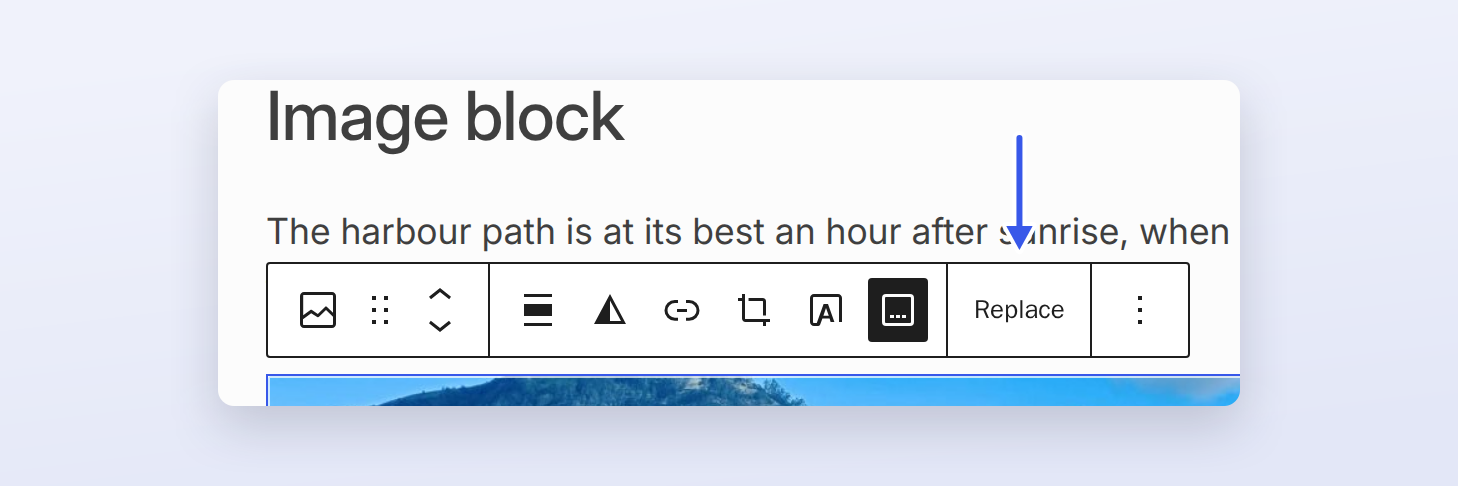
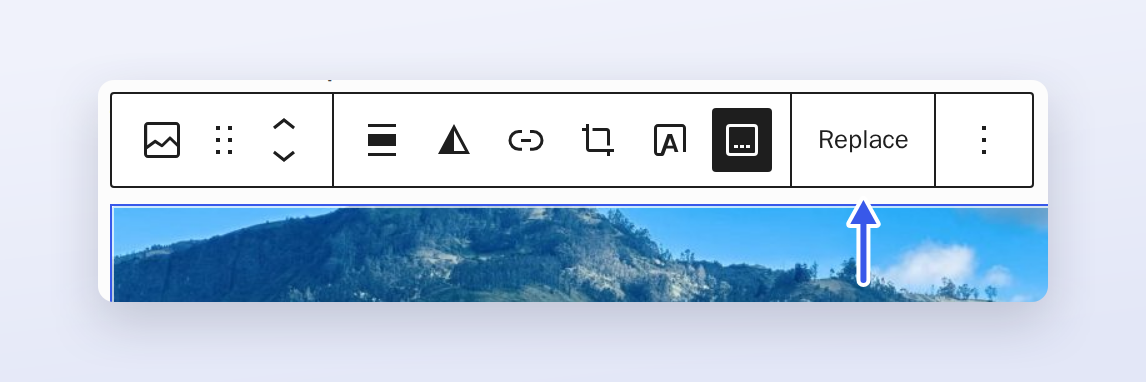
Screenshots: preview command, review loop, Gallery and Table showcase, tighter toolbar crops
- `wp-screenshots preview [filters] [--width] [--out]` writes PNG copies of
  generated images so a person or an agent can look at them; the screenshots
  skill now describes the loop: lint, render, preview and look, fix, snippet,
  canonical render.
- Demo site: `block-gallery` and `block-table` showcase posts alongside
  `block-image`, each with a featured image and dated 2023.
- Example project: Gallery and Table block articles with specs. `auto` put
  the three-column gallery on the banner frame and the table on 16:9, which
  the guideline now shows as the point of `auto`.
- Presets: block-toolbar pad 6 (a toolbar sits right under the previous
  block; a wider pad dragged that text in half-cut). Default arrow length 40
  and a guideline note to point at toolbar buttons from below or the side.
- All eleven example images rendered canonically in the Playwright image and
  accepted; five were pixel-identical to the previous canonical run.

diff --git a/packages/screenshots/src/cli.js b/packages/screenshots/src/cli.js
@@ -27,6 +27,7 @@ Commands
   dev       Open a headed browser, run a shot's scene and steps, then pause in the Playwright Inspector
   shoot     Render one shot from a preset without a spec file (--preset <name> [--<param> <value>] [--out <file>])
   presets   List the presets (subjects) a shot can be built from, with their parameters
+  preview   Write PNG copies of generated images (filters apply) into <workDir>/preview for review
   doctor    Check the local setup
   list      List specs and shots
   vocab     List the scenes, step verbs and capture targets specs can use
@@ -202,6 +203,8 @@ async function main() {
 		}
 		case 'shoot':
 			return shoot( config, flags );
+		case 'preview':
+			return preview( config, filter, flags );
 		case 'doctor':
 			return ( await doctor( config ) ) ? 0 : 1;
 		case 'vocab':
@@ -279,6 +282,61 @@ async function shoot( config, options ) {
 	fs.copyFileSync( produced, out );
 	console.log( `Wrote ${ path.relative( process.cwd(), out ) || out }` );
 	fs.rmSync( tmp, { recursive: true, force: true } );
+	return 0;
+}
+
+/**
+ * Convert the generated images of the matching shots to PNG under <workDir>/preview (or --out <dir>) and print
+ * the paths. WebP is what the docs ship; PNG is what image viewers, diff tools and agents read reliably.
+ * @param {Object} config
+ * @param {Object} filter
+ * @param {Object} options
+ */
+async function preview( config, filter, options ) {
+	const sharp = ( await import( 'sharp' ) ).default;
+	const specs = filterSpecs( loadSpecs( config ), filter );
+	if ( ! specs.length ) {
+		throw new UserError( 'No shot specs matched the filter.' );
+	}
+	const ext = config.style.format === 'png' ? 'png' : 'webp';
+	const outDir = path.resolve(
+		String( options.out || path.join( config.workDir, 'preview' ) )
+	);
+	const maxWidth = options.width ? Number( options.width ) : null;
+	let count = 0;
+	for ( const spec of specs ) {
+		for ( const shot of spec.shots ) {
+			const src = path.join(
+				config.outDir,
+				spec.article,
+				`${ shot.id }.${ ext }`
+			);
+			if ( ! fs.existsSync( src ) ) {
+				console.log(
+					`missing  ${ spec.article }/${ shot.id } (not generated yet)`
+				);
+				continue;
+			}
+			const dest = path.join( outDir, spec.article, `${ shot.id }.png` );
+			fs.mkdirSync( path.dirname( dest ), { recursive: true } );
+			let image = sharp( src );
+			if ( maxWidth ) {
+				image = image.resize( {
+					width: maxWidth,
+					withoutEnlargement: true,
+				} );
+			}
+			await image.png().toFile( dest );
+			const meta = await sharp( src ).metadata();
+			console.log(
+				`${ dest }  (${ meta.width }×${ meta.height }, ${ shot.alt })`
+			);
+			count += 1;
+		}
+	}
+	console.log(
+		`${ count } preview(s) written to ${ path.relative( process.cwd(), outDir ) || outDir }`
+	);
 	return 0;
 }
 

diff --git a/packages/screenshots/src/presets.js b/packages/screenshots/src/presets.js
@@ -40,7 +40,8 @@ export const presets = {
 		expand: ( { block, post } ) => ( {
 			scene: sceneFor( block, post ),
 			steps: stepsFor( block, post ),
-			capture: { target: 'block-toolbar', pad: 24, frame: 'banner' },
+			// Tight: a toolbar sits right under the previous block, and a wide pad drags that text in half-cut.
+			capture: { target: 'block-toolbar', pad: 6, frame: 'banner' },
 		} ),
 	},
 	'block-settings': {

diff --git a/packages/screenshots/src/style.js b/packages/screenshots/src/style.js
@@ -58,7 +58,7 @@ export const defaultStyle = {
 	arrow: {
 		color: '#3858e9',
 		width: 3,
-		length: 56, // CSS px from the tail to the target's edge
+		length: 40, // CSS px from the tail to the target's edge; short, so it rarely crosses neighbouring text
 		head: 12, // arrowhead size
 		gap: 6, // space between the arrowhead tip and the target
 		halo: { color: '#ffffff', width: 2 },

diff --git a/packages/demo-site/content/seed.php b/packages/demo-site/content/seed.php
@@ -676,6 +676,38 @@ $block_image = wp_screenshots_upsert(
 );
 set_post_thumbnail( $block_image, $wp_screenshots_media['hero'] );
 
+$block_gallery = wp_screenshots_upsert(
+	'block-gallery',
+	array(
+		'post_title'    => 'Gallery block',
+		'post_date'     => '2023-01-11 09:00:00',
+		'post_author'   => $author_1,
+		'post_content'  => wp_screenshots_p( 'Three views from the same afternoon on the cliff path, taken an hour apart.' )
+			. "\n\n<!-- wp:gallery {\"linkTo\":\"none\"} -->\n<figure class=\"wp-block-gallery has-nested-images columns-default is-cropped\">{$gallery_items}</figure>\n<!-- /wp:gallery -->\n\n"
+			. wp_screenshots_p( 'The tide was out for the first two and coming in fast by the third.' ),
+		'post_category' => array( $cat_guides ),
+		'tags_input'    => array( 'photography' ),
+	)
+);
+set_post_thumbnail( $block_gallery, $wp_screenshots_media['landscape-1'] );
+
+$block_table = wp_screenshots_upsert(
+	'block-table',
+	array(
+		'post_title'    => 'Table block',
+		'post_date'     => '2023-01-12 09:00:00',
+		'post_author'   => $author_2,
+		'post_content'  => wp_screenshots_p( 'The three sections of the coast path, with distances and what is underfoot.' )
+			. "\n\n<!-- wp:table -->\n<figure class=\"wp-block-table\"><table class=\"has-fixed-layout\"><thead><tr><th>Section</th><th>Distance</th><th>Terrain</th></tr></thead>"
+			. '<tbody><tr><td>Harbour to the lighthouse</td><td>3.5 km</td><td>Paved, then grass</td></tr><tr><td>Lighthouse to the cove</td><td>4 km</td><td>Cliff path</td></tr><tr><td>Cove to the ferry</td><td>3.5 km</td><td>Sand and boardwalk</td></tr></tbody>'
+			. "</table></figure>\n<!-- /wp:table -->\n\n"
+			. wp_screenshots_p( 'Allow extra time on the cliff section after rain.' ),
+		'post_category' => array( $cat_guides ),
+		'tags_input'    => array( 'planning' ),
+	)
+);
+set_post_thumbnail( $block_table, $wp_screenshots_media['landscape-3'] );
+
 /* -------------------------------------------------------------------------------------------------------------
  * Site identity and options
  * ---------------------------------------------------------------------------------------------------------- */
@@ -693,7 +725,9 @@ update_option(
 		'pack'  => 'saltmarsh-placeholder',
 		'media' => $wp_screenshots_media,
 		'blocks' => array(
-			'block-image' => $block_image,
+			'block-image'   => $block_image,
+			'block-gallery' => $block_gallery,
+			'block-table'   => $block_table,
 		),
 		'pages' => array(
 			'sample-page' => $page_sample,

diff --git a/skills/screenshots/SKILL.md b/skills/screenshots/SKILL.md
@@ -30,6 +30,21 @@ toolkit for the frames, the annotation style and the text-in-images preference (
 Block presets expect the demo site to hold a showcase post `block-<name>` for the block; when it does not, pass
 `post: new` (inserts the block into a fresh post) or write the steps by hand.
 
+## The loop
+
+1. Write or edit the spec (a preset plus the request's specifics). `npx wp-screenshots lint` catches typos before
+   anything boots.
+2. Render it: `npx wp-screenshots run --article <slug>` (local preview is fine while iterating).
+3. Look at it: `npx wp-screenshots preview --article <slug> --width 1400` writes PNG copies under
+   `<workDir>/preview/` and prints their paths; open them with the Read tool. Check that nothing is cut off, no
+   stray popover or inline toolbar is showing, the annotation points at the right element, and the frame suits the
+   subject. If something is wrong, change the spec (a different target, `pad`, `fit: content`, a `wait` step, a
+   different `from` for an arrow) and go back to step 2.
+4. Place it: `npx wp-screenshots snippet --article <slug>` prints the Markdown image lines with the alt text; put
+   them where the article discusses that UI. `lint` confirms the references resolve.
+5. Hand over: the canonical pixels come from `check --docker` or the project's CI job, then `update`. Say so in
+   the pull request; do not commit local renders over canonical ones.
+
 ## Commands (run from the project directory, the one holding `shots.config.js`)
 
 - `npx wp-screenshots lint` validates specs, cross-checks Markdown image references and finds orphans. No browser
@@ -40,8 +55,8 @@ Block presets expect the demo site to hold a showcase post `block-<name>` for th
 - `npx wp-screenshots run [--article <slug> | --section <path>]` renders and writes images and the manifest directly.
 - `npx wp-screenshots dev --article <slug> --shot <id>` opens a headed browser, runs the scene and steps, and pauses in
   the Playwright Inspector. Use its "Pick locator" tool to find role and name for a new step.
-- `doctor`, `list`, `vocab`, `snippet` check the setup, list specs, print the step vocabulary, and print the Markdown
-  image lines for an article.
+- `doctor`, `list`, `vocab`, `snippet`, `preview` check the setup, list specs, print the step vocabulary, print the
+  Markdown image lines for an article, and write PNG copies of generated images for review.
 
 ## Rules
 

diff --git a/style/SCREENSHOTS.md b/style/SCREENSHOTS.md
@@ -74,6 +74,10 @@ it moves between releases:
 - **Badge** (numbered) when the prose enumerates steps or several controls in one image.
 - **Dim** when the surrounding interface is noisy and the subject needs isolating.
 
+Arrows are short (40 CSS px) and come from the direction with the most empty space. A toolbar sits directly
+under the text above it, so an arrow from `top` crosses that text; point at toolbar buttons from `bottom` or from
+the side instead. Outlines have no such problem, which is one more reason they are the default.
+
 One annotation type per image. The accent is WordPress blue (`#3858e9`) with a 2 px white halo on both sides of
 the stroke; the editor's own selection outline is the same blue, and the halo is what keeps an annotation legible on
 top of it. Annotations never rely on colour alone: outlines carry stroke weight, badges carry numbers.
@@ -85,6 +89,11 @@ capture:
 ```
 
 ![The Image block toolbar, with an arrow pointing at the Replace button.](../examples/block-editor-handbook/docs/assets/screenshots/image-block/toolbar.webp)
+
+![A Gallery block on the editor canvas, selected, showing three landscape photos in a row.](../examples/block-editor-handbook/docs/assets/screenshots/gallery-block/canvas.webp)
+
+A three-column gallery is wider than it is tall, so `auto` put it on the banner frame; the Image block above landed
+on 4:3. The same preset, two shapes, each on the ratio that suits it.
 
 ## Text in images
 

diff --git a/CHANGELOG.md b/CHANGELOG.md
@@ -35,7 +35,10 @@ Restructured as an npm workspaces monorepo focused on maintaining WordPress.org 
   template before); `selectBlock` no longer leaves the inline formatting toolbar over blocks with a caption.
 - New package `@wporg-docs/demo-site`: the blueprint, mu-plugin and content pack moved here from the migration
   repo, now on the Ipsum theme with a `block-image` showcase post.
-- New `style/SCREENSHOTS.md` guideline and `examples/block-editor-handbook/`, a sample project rendered end to end.
+- New `style/SCREENSHOTS.md` guideline and `examples/block-editor-handbook/`, a sample project rendered end to end
+  (Image, Gallery and Table blocks, the site editor).
+- Screenshots: `wp-screenshots preview` writes PNG copies of generated images for review by eye or by an agent;
+  the `screenshots` skill describes the render, look, fix, place loop around it.
 
 ## 0.1.0 (2026-10-13)
 

diff --git a/packages/demo-site/README.md b/packages/demo-site/README.md
@@ -80,6 +80,8 @@ One post per block, holding a representative instance of it, so the `block-canva
 | Slug | Block | Content |
 |---|---|---|
 | `block-image` | `core/image` | A paragraph, the `hero` photo with a caption, a paragraph; featured image `hero`; dated 2023 so it never leads the home page |
+| `block-gallery` | `core/gallery` | A paragraph, a gallery of `landscape-1..3`, a paragraph; featured image `landscape-1` |
+| `block-table` | `core/table` | A paragraph, a three-column table with a header row, a paragraph; featured image `landscape-3` |
 
 Adding a block to the showcase means one more `wp_screenshots_upsert( 'block-<name>', … )` in `seed.php` with the
 block's markup exactly as its `save()` emits it, plus a row here and in `content.json`.

diff --git a/examples/block-editor-handbook/docs/blocks/table-block.md b/examples/block-editor-handbook/docs/blocks/table-block.md
@@ -1,0 +1,17 @@
+# Table block
+
+The Table block adds a table with a header row, body rows and an optional footer.
+
+![A Table block on the editor canvas, selected, showing a three-column table of walking routes.](../assets/screenshots/table-block/canvas.webp)
+
+## Toolbar
+
+Use **Edit table** to insert or delete rows and columns.
+
+![The Table block toolbar, with the Edit table button outlined.](../assets/screenshots/table-block/toolbar.webp)
+
+## Styles
+
+The **Styles** tab switches between the **Default** and **Stripes** styles.
+
+![The Table block's Styles tab in the block inspector, where the Default and Stripes styles are chosen.](../assets/screenshots/table-block/styles.webp)

diff --git a/packages/screenshots/README.md b/packages/screenshots/README.md
@@ -49,6 +49,7 @@ wp-screenshots lint [--fix]                 # specs, Markdown references, orphan
 wp-screenshots shoot --preset <name> [--<param> <value>] [--frame <frame>] [--out <file>]   # one image, no spec
 wp-screenshots presets                      # the subjects a shot can be built from, with their parameters
 wp-screenshots snippet --article <slug> [--from docs/path/file.md]
+wp-screenshots preview [filters] [--width <px>] [--out <dir>]   # PNG copies of generated images for review
 wp-screenshots dev --article <slug> --shot <id>   # headed browser, pauses in the Playwright Inspector
 wp-screenshots doctor | list | vocab
 ```

diff --git a/examples/block-editor-handbook/docs/blocks/gallery-block.md b/examples/block-editor-handbook/docs/blocks/gallery-block.md
@@ -1,0 +1,12 @@
+# Gallery block
+
+The Gallery block displays several images in a grid.
+
+![A Gallery block on the editor canvas, selected, showing three landscape photos in a row.](../assets/screenshots/gallery-block/canvas.webp)
+
+## Settings
+
+**Columns** sets how many images sit side by side. The images crop to a uniform size unless you turn off
+**Crop images to fit**.
+
+![The Gallery block's Settings tab in the block inspector, with the Columns control outlined.](../assets/screenshots/gallery-block/settings.webp)

diff --git a/examples/block-editor-handbook/README.md b/examples/block-editor-handbook/README.md
@@ -15,4 +15,4 @@ npx wp-screenshots lint
 ```
 
 Every shot here is built from a preset, so the specs read as subjects rather than scripts. `npx wp-screenshots presets`
-lists them.
+lists them. Articles: the Image, Gallery and Table blocks, and the site editor.
